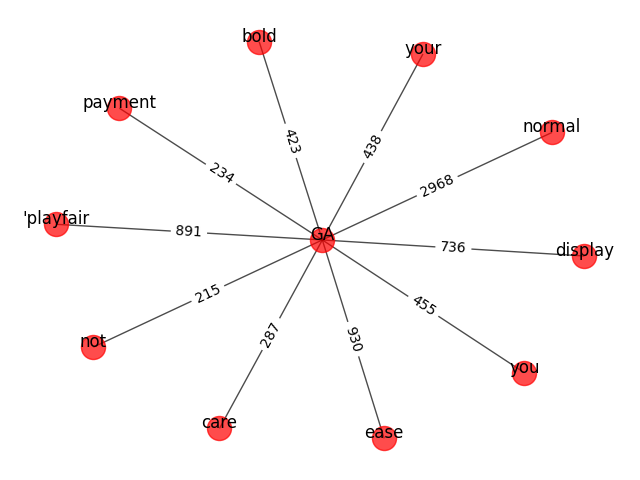
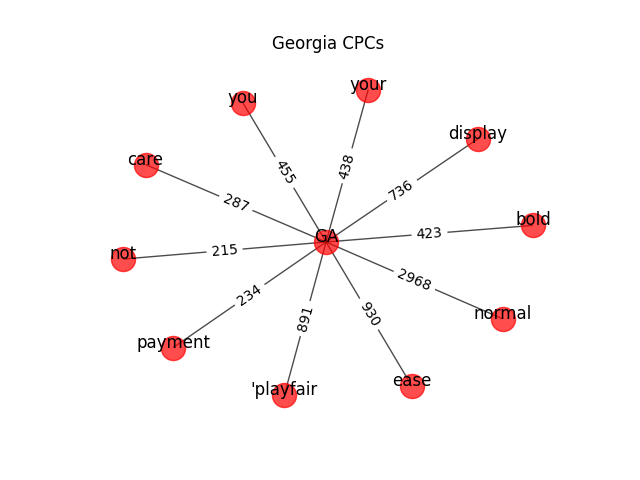
add titles

diff --git a/truth_inquery/crawler/graphs.py b/truth_inquery/crawler/graphs.py
@@ -144,9 +144,11 @@ if __name__ == "__main__":
     pos = nx.spring_layout(G)
 
     # Add options using clinic as key
+    plt.title(STATES[state]+" "+clinic+"s")
     nx.draw(G, pos, **OPTIONAL[clinic])
     nx.draw_networkx_labels(G, pos, nx.get_node_attributes(G, 'label'), \
                                     verticalalignment='baseline')
     nx.draw_networkx_edge_labels(G,pos,edge_labels=nx.get_edge_attributes(G,'label'))
+    
     plt.savefig(filename)
-    # plt.show()
+    plt.show()
